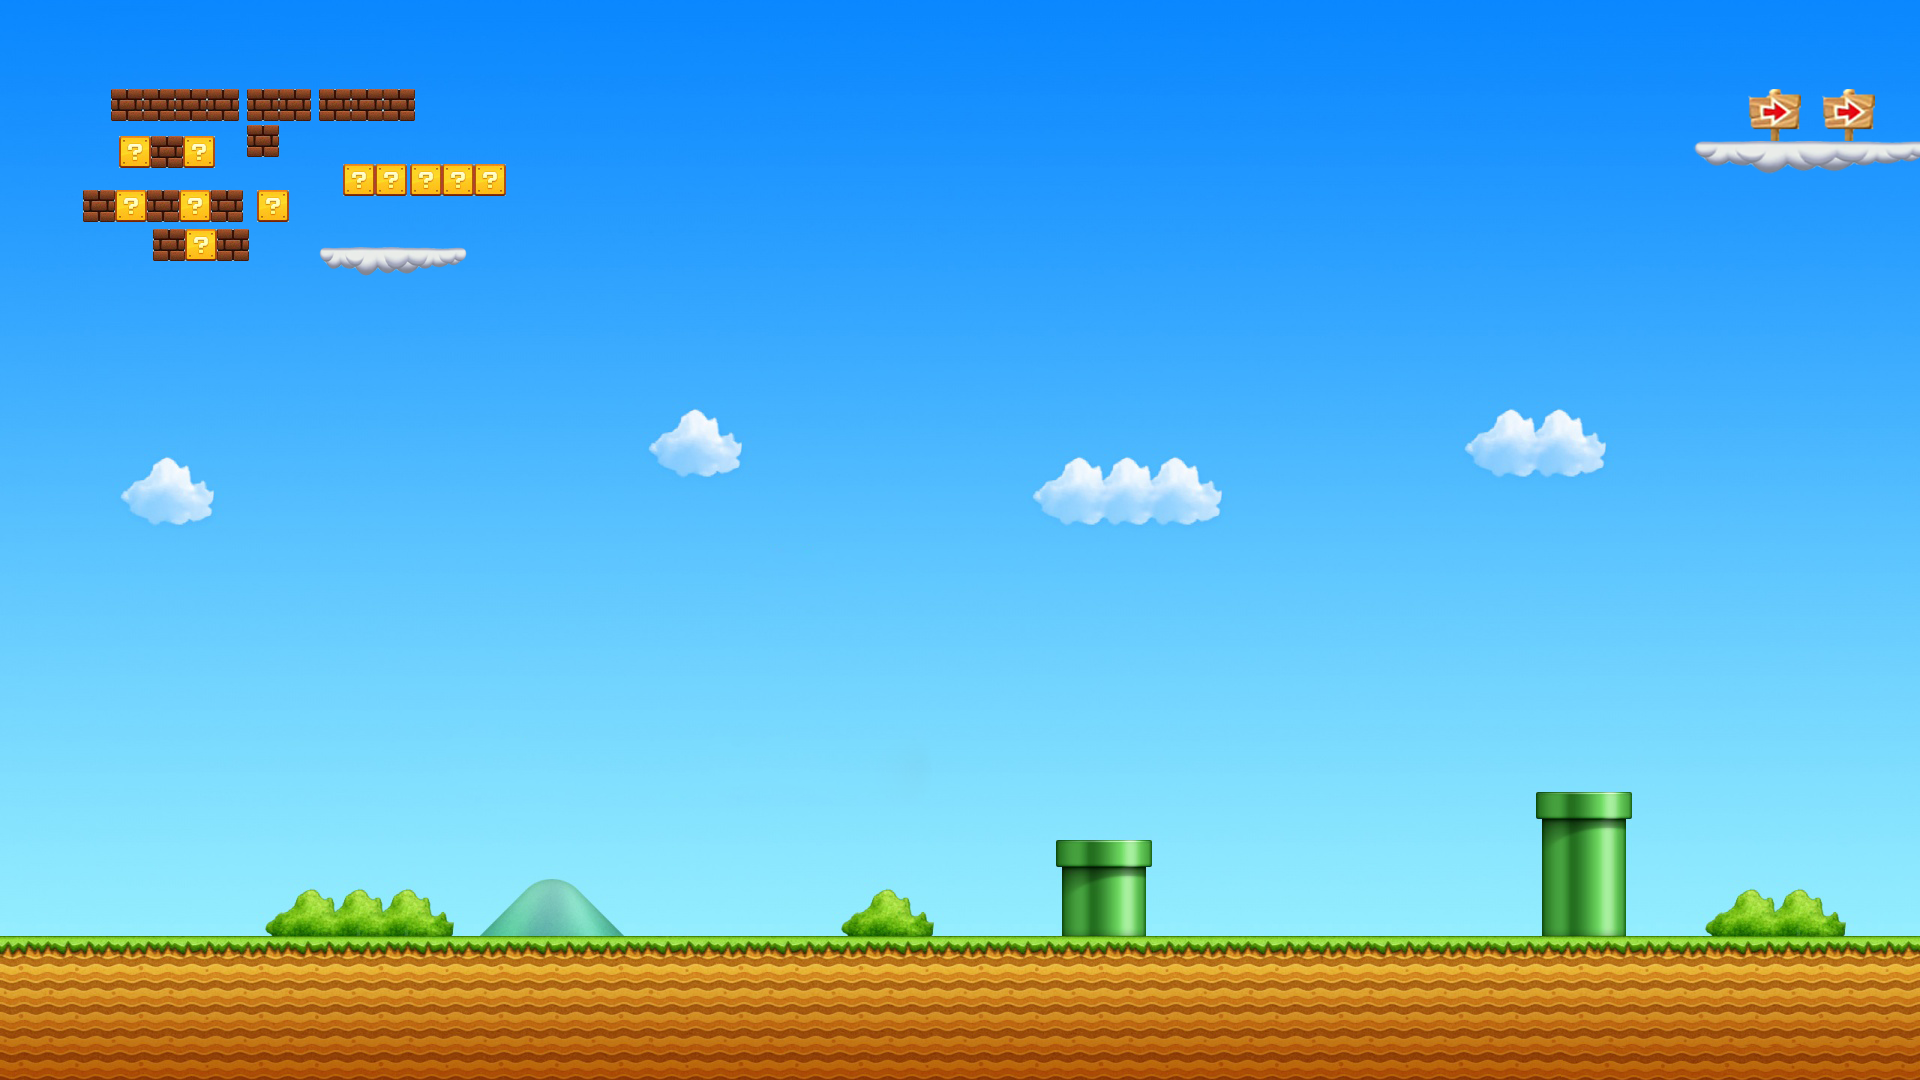
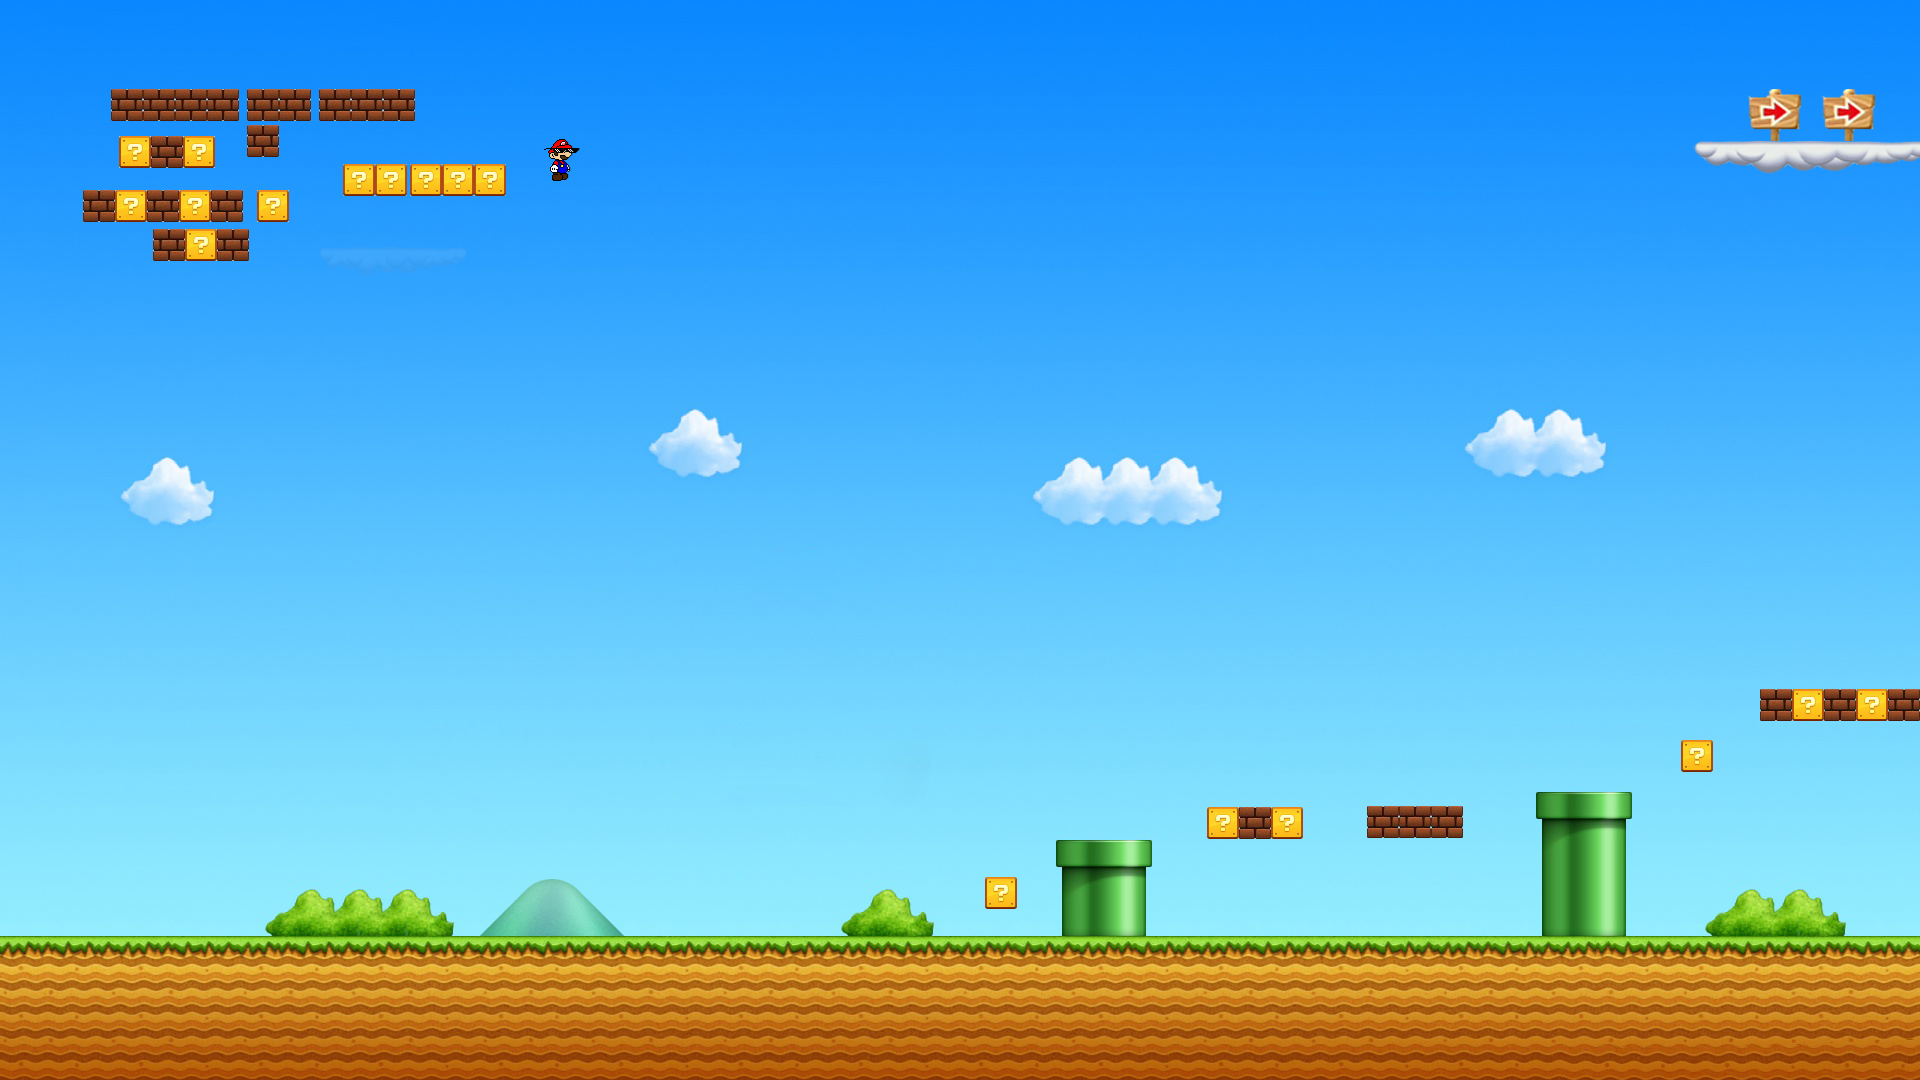
Füße/ Hitbox angepasst , Map update, Charakter eingefügt Jump buggy

diff --git a/Beispielprojekt/Spieler.h b/Beispielprojekt/Spieler.h
@@ -15,8 +15,8 @@ public:
 			Vektor2d tmpVec(i, 0);
 			this->fuesseVec.push_back(fuss + tmpVec);
 		}*/
-		this->fussLinks = fuss; 
-		Vektor2d tmpVec(breite, 0);
+		Vektor2d tmpVec((breite/2), 0);
+		this->fussLinks = (fuss - tmpVec);
 		this->fussRechts = (fuss + tmpVec);
 		for (int i = 0; i < hoehe; i++)
 		{
@@ -24,7 +24,7 @@ public:
 			this->hitboxVec.push_back(hitbox - tmpVec);
 		}
 	}
-	string grafik = "Zombie.png";
+	string grafik = "MarioChar.png";
 
 	//Spieler() :grafik("Zombie.png")
 	//
